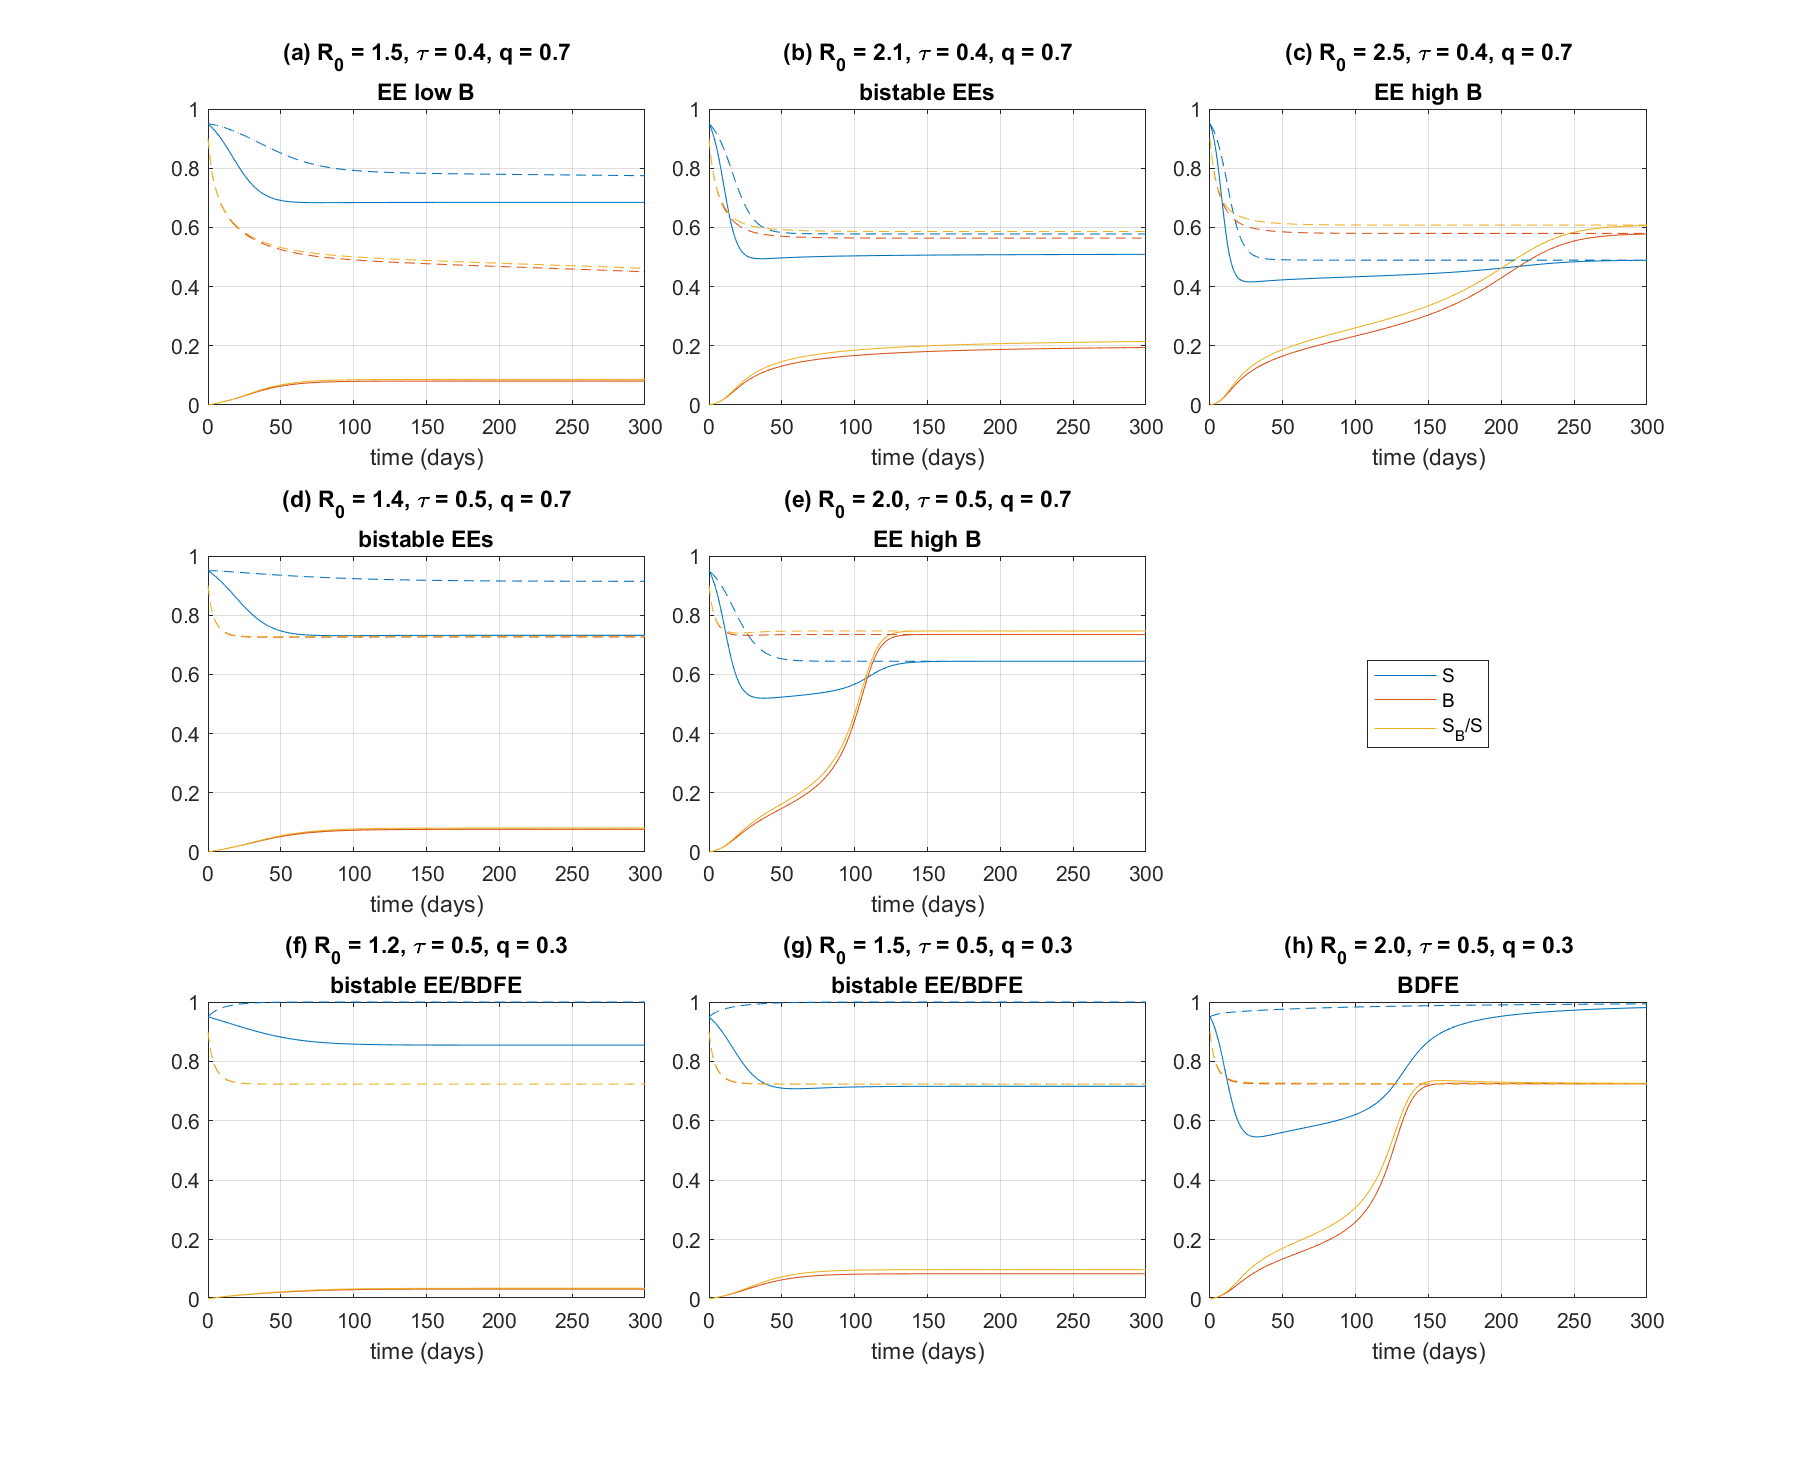
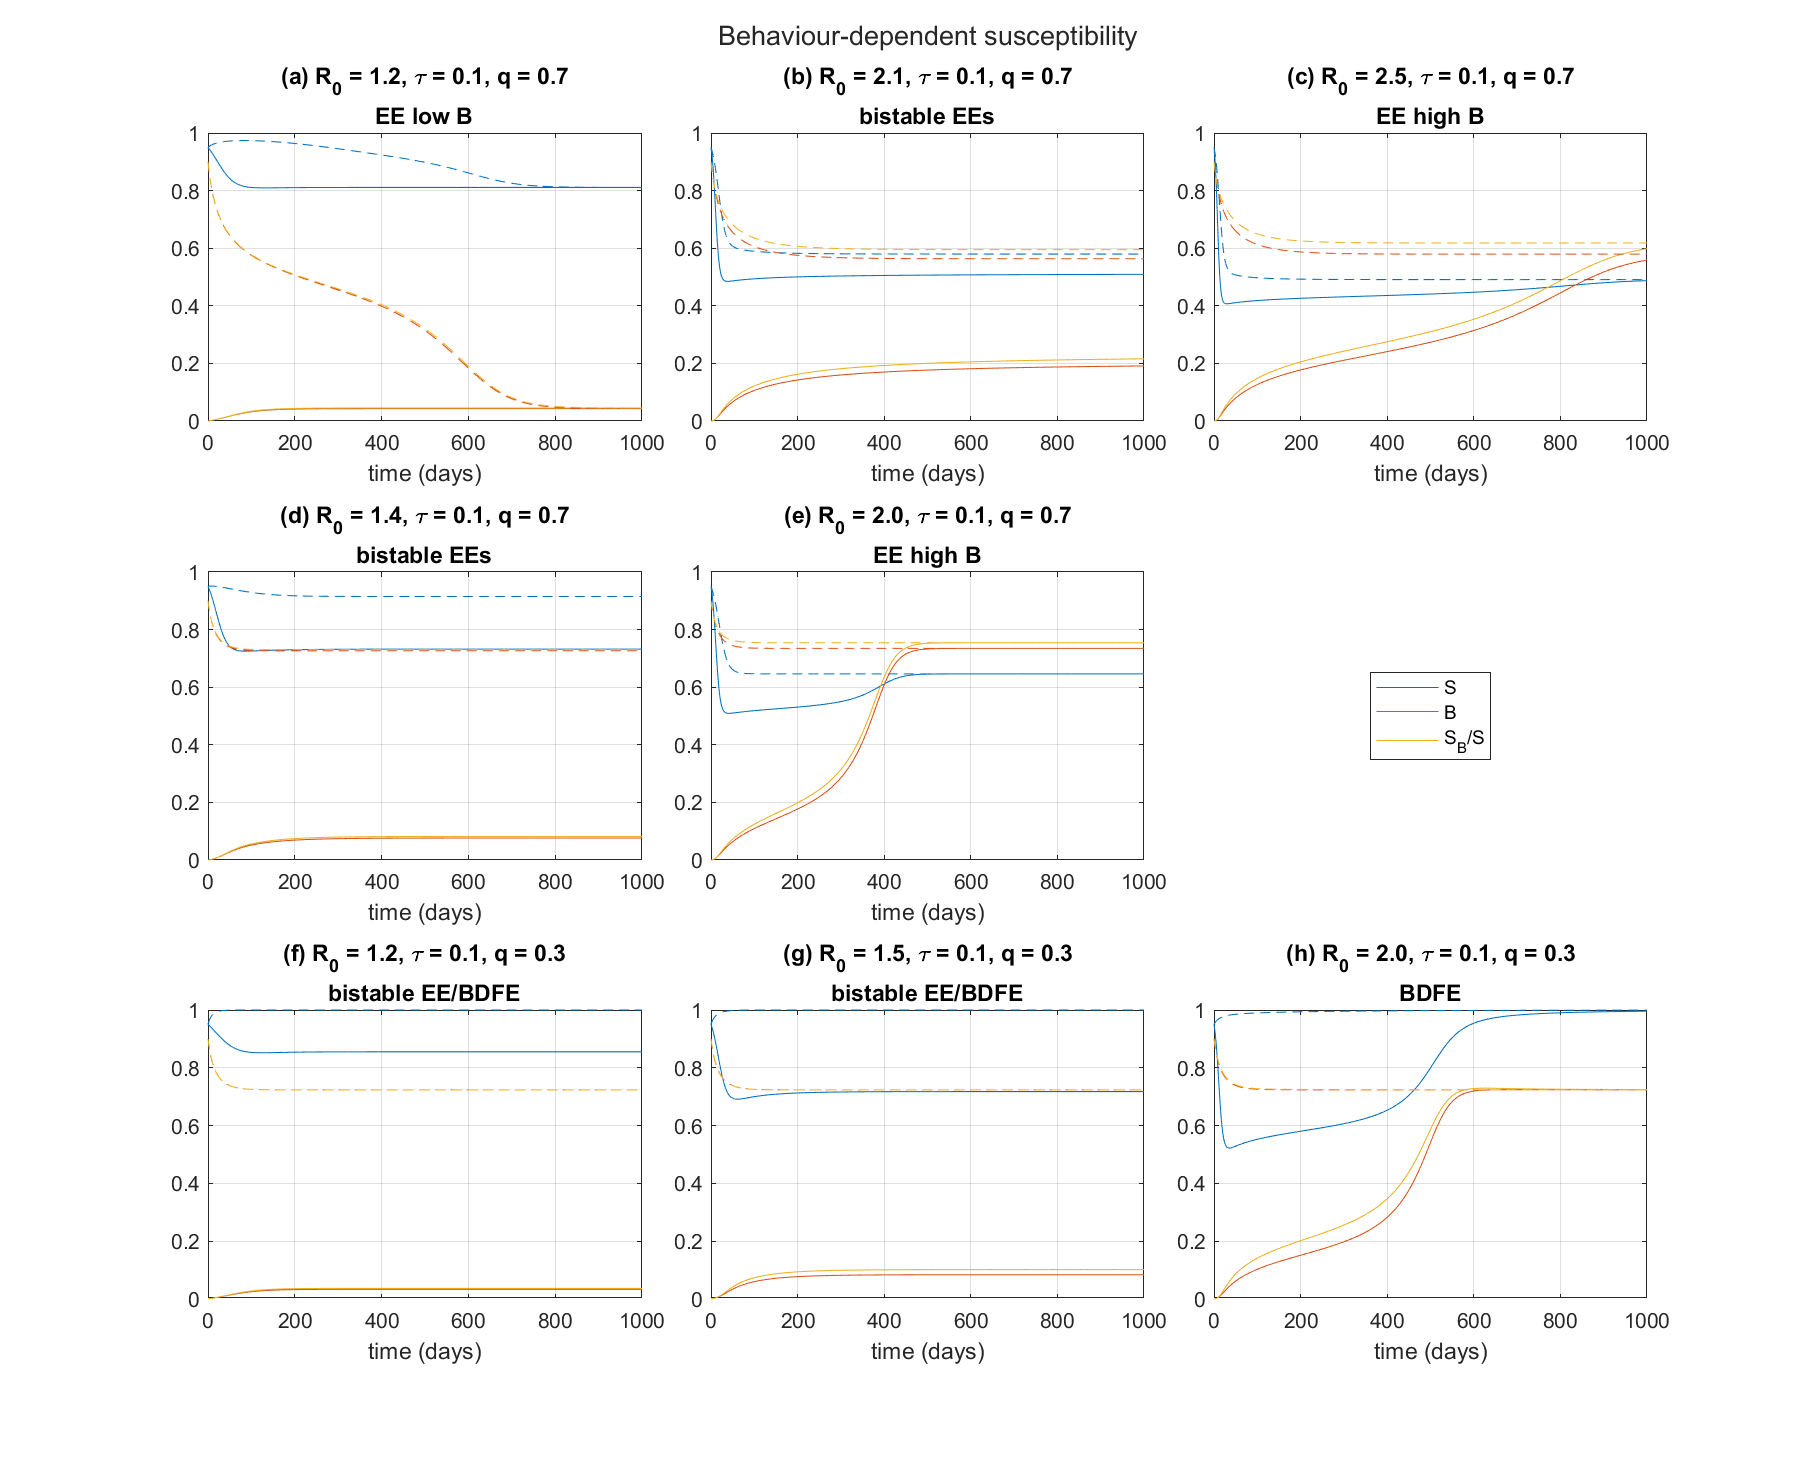
Run both model versions

diff --git a/runODEs.m b/runODEs.m
@@ -14,61 +14,96 @@ B02 = 0.9;
 % Initial condition for S
 S0 = 0.95;
 
-% Time range        3000 for slow, 300 for fast
-tSpan = 0:300;
+% Time range        1000 for slow, 300 for fast
+tSpan = 0:1000;
 
 % Set ICs
 IC1 = [(1-B01)*S0; B01*S0; B01 ];
 IC2 = [(1-B02)*S0; B02*S0; B02 ];
 
 
-h = figure(1);
-h.Position = [   564          64        1165         934];
-tiledlayout(3, 3, "TileSpacing", "compact");
 
-% Tiles to plot cases 1-98 in and description of dynamics
-iPlot = [1, 2, 3, 4, 5, 7, 8, 9];
-desc = ["EE low B", "bistable EEs", "EE high B", "bistable EEs", "EE high B", "bistable EE/BDFE", "bistable EE/BDFE", "BDFE" ];
-
-lbls = ["(a)", "(b)", "(c)", "(d)", "(e)", "(f)", "(g)", "(h)", "(i)"];
-
-% Run and plot each parameter combination in turn
-for iCase = 1:nCases
-    par = getPar(iCase);
+% Do the same thing for the susceptibility and transmission versions of the
+% model
+for iType = 1:2
     
-    % Run the two initial conditions
-    [t1, Y1] = ode45(@(t, y)myODEs(t, y, par), tSpan, IC1);
-    [t2, Y2] = ode45(@(t, y)myODEs(t, y, par), tSpan, IC2);
-
-    % Extract epi variables
-    SN1 = Y1(:, 1);
-    SB1 = Y1(:, 2);
-    B1 = Y1(:, 3);
-    S1 = SN1+SB1;
-
-    SN2 = Y2(:, 1);
-    SB2 = Y2(:, 2);
-    B2 = Y2(:, 3);
-    S2 = SN2+SB2;
-
-    % Plot
-    nexttile(iPlot(iCase));
-    plot(t1, S1, t1, B1, t1, SB1./S1)
-    hold on
-    ha = gca;
-    ha.ColorOrderIndex = 1;
-    plot(t2, S2, '--', t2, B2, '--', t2, SB2./S2, '--')
-    ylim([0 1])
-    grid on
-    xlabel('time (days)')
-    title(lbls(iCase) + " R_0 = " + sprintf('%.1f', par.Beta/par.Gamma) +  ", \tau = " + sprintf('%.1f', par.Tau) +  ", q = " + sprintf('%.1f\n', par.q) + desc(iCase))
+    h = figure(iType);
+    h.Position = [   564          64        1165         934];
+    tiledlayout(3, 3, "TileSpacing", "compact");
+    
+    % Tiles to plot cases 1-98 in and description of dynamics
+    iPlot = [1, 2, 3, 4, 5, 7, 8, 9];
+    desc = ["EE low B", "bistable EEs", "EE high B", "bistable EEs", "EE high B", "bistable EE/BDFE", "bistable EE/BDFE", "BDFE" ];
+    
+    lbls = ["(a)", "(b)", "(c)", "(d)", "(e)", "(f)", "(g)", "(h)", "(i)"];
+    
+    % Run and plot each parameter combination in turn
+    for iCase = 1:nCases
+        par = getPar(iCase);
+    
+        % Select which ODE model to run
+        if iType == 1
+            ODE_handle = @(t, y)myODEs_suscept(t, y, par);
+        else
+            ODE_handle = @(t, y)myODEs_trans(t, y, par);
+        end        
+        
+        % Run the two initial conditions
+        [t1, Y1] = ode45(ODE_handle, tSpan, IC1);
+        [t2, Y2] = ode45(ODE_handle, tSpan, IC2);
+    
+        % Extract epi variables
+        SN1 = Y1(:, 1);
+        SB1 = Y1(:, 2);
+        B1 = Y1(:, 3);
+        S1 = SN1+SB1;
+    
+        SN2 = Y2(:, 1);
+        SB2 = Y2(:, 2);
+        B2 = Y2(:, 3);
+        S2 = SN2+SB2;
+    
+        % Plot
+        nexttile(iPlot(iCase));
+        plot(t1, S1)
+        hold on
+        plot(t1, B1)
+        if iType == 1
+            % Only need to plot S_B/S for the susceptibility model as it is
+            % identical to B in the transmission model
+            plot(t1, SB1./S1)
+        end
+        ha = gca;
+        ha.ColorOrderIndex = 1;
+        plot(t2, S2, '--')
+        plot(t2, B2, '--')
+        if iType == 1
+            % Only need to plot S_B/S for the susceptibility model as it is
+            % identical to B in the transmission model
+            plot(t2, SB2./S2, '--')
+        end
+        ylim([0 1])
+        grid on
+        xlabel('time (days)')
+        title(lbls(iCase) + " R_0 = " + sprintf('%.1f', par.Beta/par.Gamma) +  ", \tau = " + sprintf('%.1f', par.Tau) +  ", q = " + sprintf('%.1f\n', par.q) + desc(iCase))
+    
+    end
+    
+    
+    if iType == 1   
+        l = legend('S', 'B', 'S_B/S');
+    else
+        l = legend('S', 'B');
+    end
+    l.Layout.Tile = 6;
+    
+    if iType == 1
+        sgtitle('Behaviour-dependent susceptibility')
+        fName = figFolder + "time_series_diff_susceptibility.png";
+    else
+        sgtitle('Behaviour-dependent transmission')
+        fName = figFolder + "time_series_diff_transmission.png";
+    end
+    saveas(h, fName);
 
 end
-
-
-l = legend('S', 'B', 'S_B/S', 'Location', '');
-l.Layout.Tile = 6;
-
-fName = figFolder + "time_series_diff_susceptibility.png";
-saveas(h, fName);
-

diff --git a/myODEs_trans.m b/myODEs_trans.m
@@ -1,0 +1,21 @@
+function dydt = myODEs_trans(t, y, par)
+
+% Functiopn to evaluate the ODEs for the behaviour-dependent transmission
+% version of the model
+
+SN = y(1);
+SB = y(2);
+B = y(3);
+
+S = SN+SB;
+
+Omega = par.Tau*B^2 + par.Chi*(1-S);
+
+Lambda = par.Beta * (1-B-SN + par.q*(B-SB));
+
+dSNdt = -Lambda*SN + par.Gamma*(1-B-SN) - Omega*SN + par.Alpha*SB; 
+dSBdt = -Lambda*SB + par.Gamma*(B-SB) + Omega*SN - par.Alpha*SB; 
+dBdt = Omega*(1-B) - par.Alpha*B;
+
+dydt = [dSNdt; dSBdt; dBdt];
+

diff --git a/getPar.m b/getPar.m
@@ -3,12 +3,12 @@ function par = getPar(iCase)
 % Set ODe model parameters for each case
 
 par.Gamma = 0.2;
-par.Alpha = 0.1;              % 0.025 for slow, 0.1 for fast
+par.Alpha = 0.025;              % 0.025 for slow, 0.1 for fast
 par.Chi = 0.2 * par.Alpha;
 
 if iCase == 1
     par.Tau = 3.8 * par.Alpha;
-    par.Beta = 0.3;
+    par.Beta = 0.25;
     par.q = 0.7;
 elseif iCase == 2
     par.Tau = 3.8 * par.Alpha;

diff --git a/myODEs_suscept.m b/myODEs_suscept.m
@@ -1,4 +1,4 @@
-function dydt = myODEs(t, y, par)
+function dydt = myODEs_suscept(t, y, par)
 
 % Functiopn to evaluate the ODEs for the behaviour-dependent susceptibily
 % version of the model

diff --git a/README.md b/README.md
@@ -1,2 +1,13 @@
 # behaviour_and_disease_SIS_model
-Code for the behaviour and disease SIS model with complex sociakl contagion
+
+Code for the behaviour and disease SIS model with complex social contagion
+
+
+
+## How to use this repo
+
+* Run main.m to create the two-parameter bifurcation diagrams for the behaviour-dependent transmission version of the model.
+* Run runODEs.m to create the time series plots for the behaviour-dependent susceptibility and the behaviour-dependent transmission versions of the model.
+
+
+Figures will be saved in the `figures/` folder.
